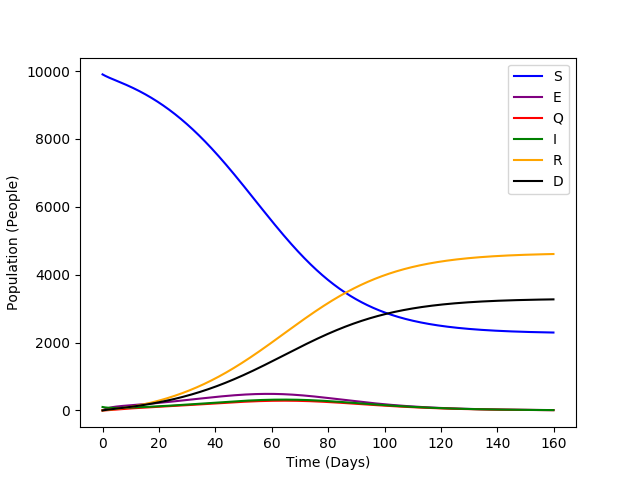
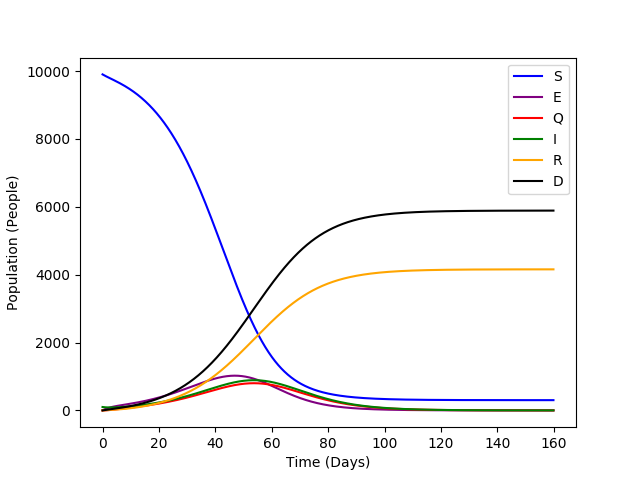
changing variables

diff --git a/hrenard_program3.py b/hrenard_program3.py
@@ -4,7 +4,7 @@ import matplotlib.pyplot as plt
 import numpy as np
 
 def runsim(
-	mean_infectious_duration = 10, 	         		# day
+	mean_infectious_duration = 20, 	         		# day
 	transmissibility = .6,                         		# infection / contact
 	contact_factor = .8,                          		# (contact / day) / person
 	mean_incubation = 9,                               	# day
